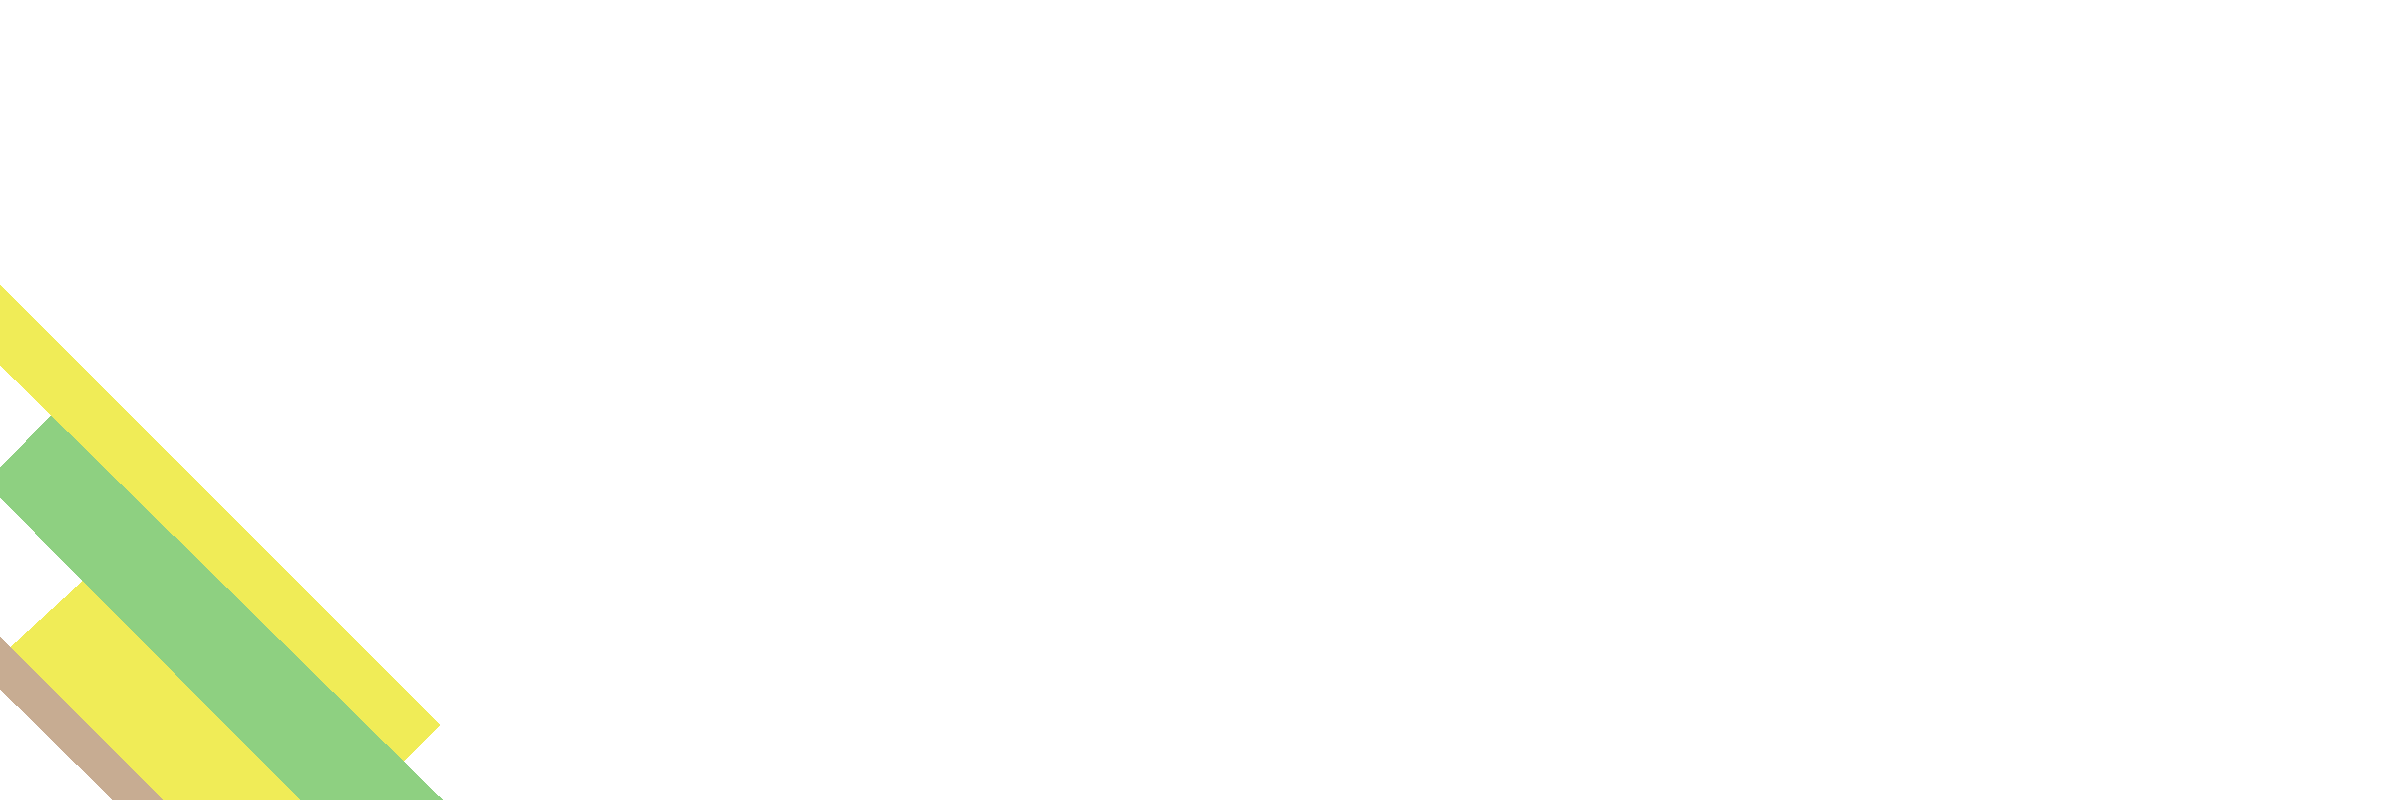
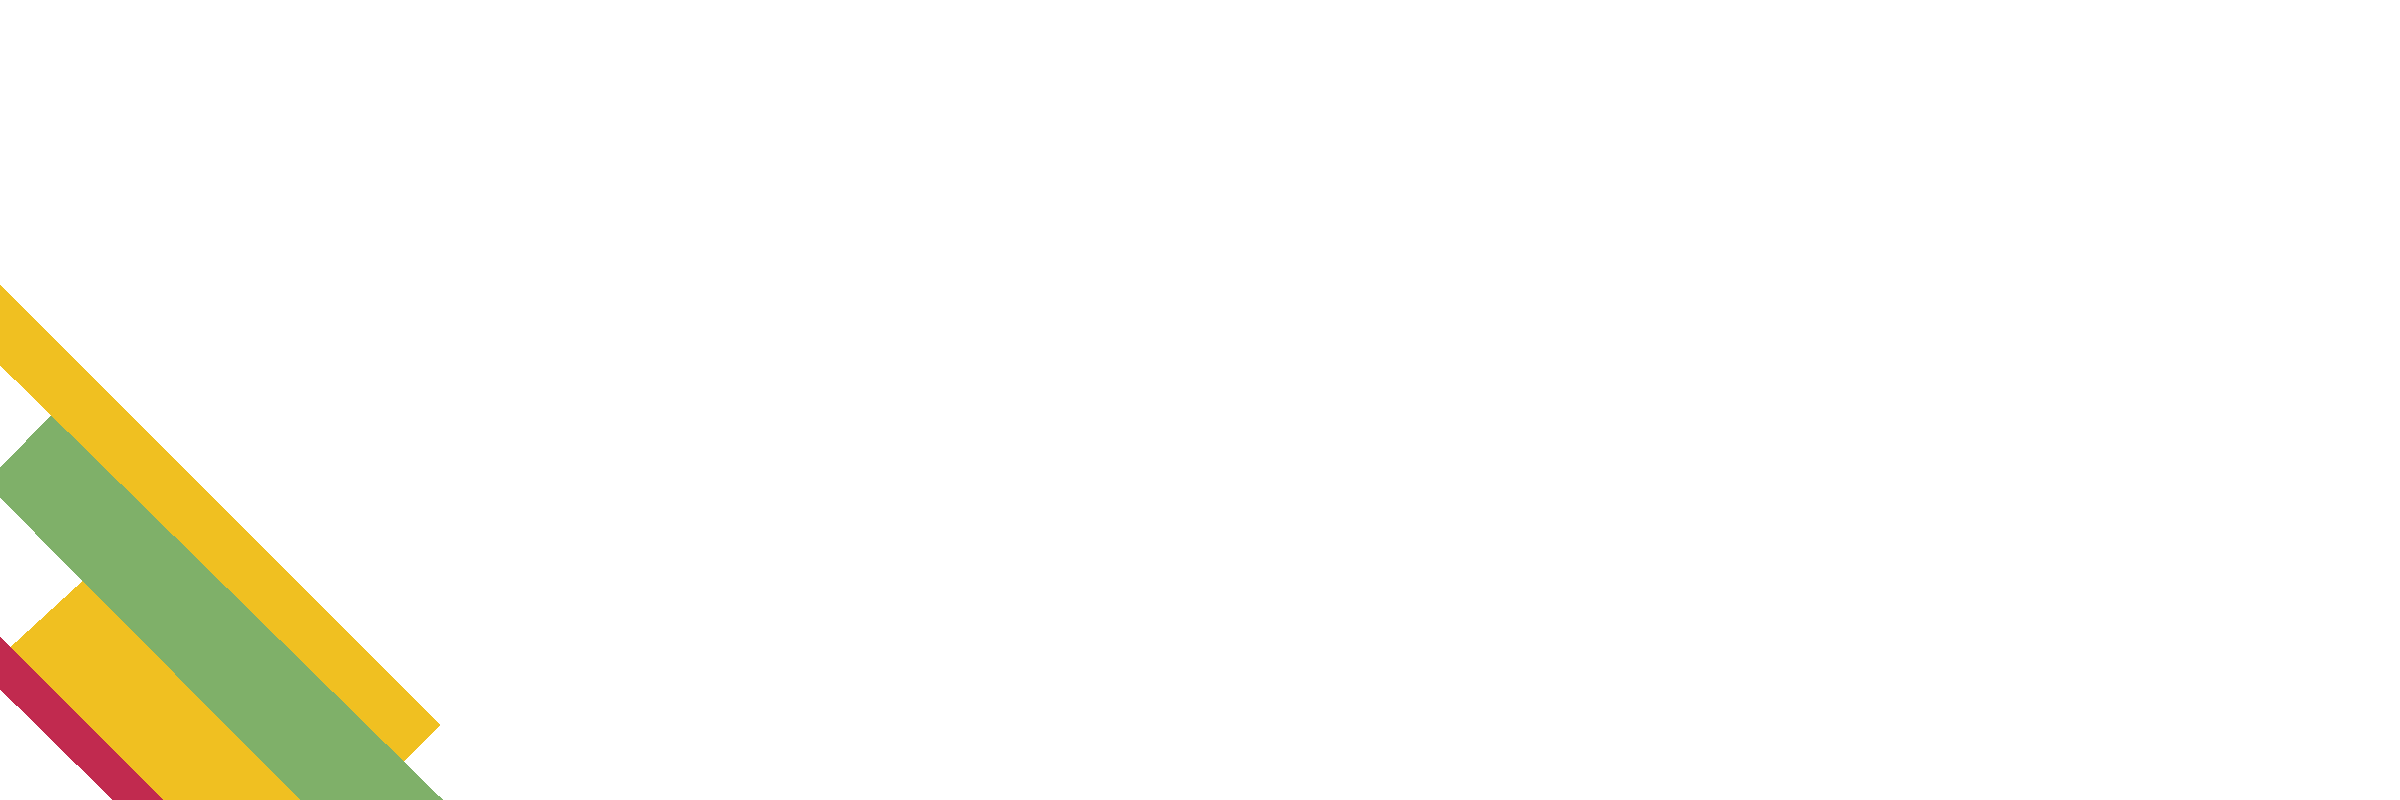
change color scheme again, small tweaks to readability

Changed region(s): [[0.0, 0.375, 0.1875, 1.0]]

diff --git a/src/planning-view/BuildMeal.js b/src/planning-view/BuildMeal.js
@@ -76,7 +76,7 @@ class BuildMeal extends React.Component {
                 </ul>
 
                 <div className="new-meal-summary">
-                    <h3><input className="meal-name" type="text"></input>: {this.state.newMeal.length} seconds</h3>
+                    <h3><input className="meal-name" type="text"></input> : {this.state.newMeal.length} seconds</h3>
                     <ul className="list-of-added-recipes">
                         {this.state.newMeal.recipes.map(recipe => {
                             return <li className="added-recipe-li" key={recipe.id}>
@@ -89,15 +89,15 @@ class BuildMeal extends React.Component {
                         }
                     </ul>
                     <section className="button-section">
-                        <button className="cook-button" onClick={() => {
+                        <button className="cook-button build-meal-button" onClick={() => {
                             this.props.setMeal(this.state.newMeal) 
                             this.fetchUpdateMealName(document.querySelector('.meal-name').value);
                             }}>Cook</button>
 
-                        <button className="save-button" onClick={() => {
+                        <button className="save-button build-meal-button" onClick={() => {
                             this.fetchUpdateMealName(document.querySelector('.meal-name').value);
                             
-                            }}>Save</button>
+                            }}>Save For Later</button>
                     </section>
                 </div>
             </section>

diff --git a/src/app.css b/src/app.css
@@ -3,7 +3,7 @@
 :root {
 	font-family: 'Open Sans', sans-serif;
 	--light-grey: #eee;
-    --med-grey: #dddddd;
+    --med-grey: #cdcdcd;
     --dark-grey: #5d5d5d;
     --border-radius: 4px;
 
@@ -14,8 +14,8 @@
     --brown: #916A2A;
     --tertiary-color: #FCD949;*/
 
-    --primary-color: #8ED081; 
-    --secondary-color: #C7AC92; 
+    --primary-color: #C12A4F; 
+    --secondary-color: #F0C021; 
     --tertiary-color: #F0EC57;
     --cream: #FFFADD;
     --brown: #916A2A;
@@ -70,5 +70,5 @@ body {
 	background-image: url("./images/swish-bars-03.png");
 	background-attachment: fixed;
 	background-repeat: no-repeat;
-	background-position: left bottom;
+	background-position: bottom 0 left 0;
 }

diff --git a/src/planning-view/css/build.css b/src/planning-view/css/build.css
@@ -19,25 +19,28 @@
 	justify-content: space-around;
 }
 
-.cook-button {
+.build-meal-button {
 	background-color: white;
 	border: none;
 	color: var(--secondary-color);
 	display: block;
+	font-weight: bold;
 	margin: 0 auto;
-	padding: 1rem 4rem;
+	padding: 1rem 0;
+	width: 40vw;
 }
-	.cook-button:hover {
+	.build-meal-button:hover {
 		background-color: rgba(0,0,0,.1)
 	}
-.save-button {
+/*.save-button {
 	background-color: white;
 	border: none;
 	color: var(--secondary-color);
 	display: block;
+	font-weight: bold;
 	margin: 0 auto;
 	padding: 1rem 4rem;
-}
+}*/
 
 .new-meal-summary {
 	background-color: var(--primary-color);

diff --git a/src/cooking-view/CurrentStepCard.js b/src/cooking-view/CurrentStepCard.js
@@ -9,7 +9,7 @@ class CurrentStepCard extends React.Component {
 
     render(){
         return(
-            <div className="current-step-card">
+            <div className="current-step-card cooking-view-card">
                 <h1>{this.props.description}</h1>
                 <BarTimer length={this.props.length} />
             </div>

diff --git a/src/cooking-view/TimerCard.js b/src/cooking-view/TimerCard.js
@@ -27,7 +27,7 @@ export class TimerCard extends React.Component {
 
 
     	return(
-    		<section className="timer-card">
+    		<section className="timer-card cooking-view-card">
 	    		<p>{this.state.description}</p>
 	    		<p>{this.state.whenOClock}</p>
     		</section>

diff --git a/src/cooking-view/css/recipe.css b/src/cooking-view/css/recipe.css
@@ -6,7 +6,7 @@
 
 .recipe {
 	display: block;
-	margin: 1rem 0;
+	margin: 0 0 2rem 0;
 }
 
 .recipe-container {
